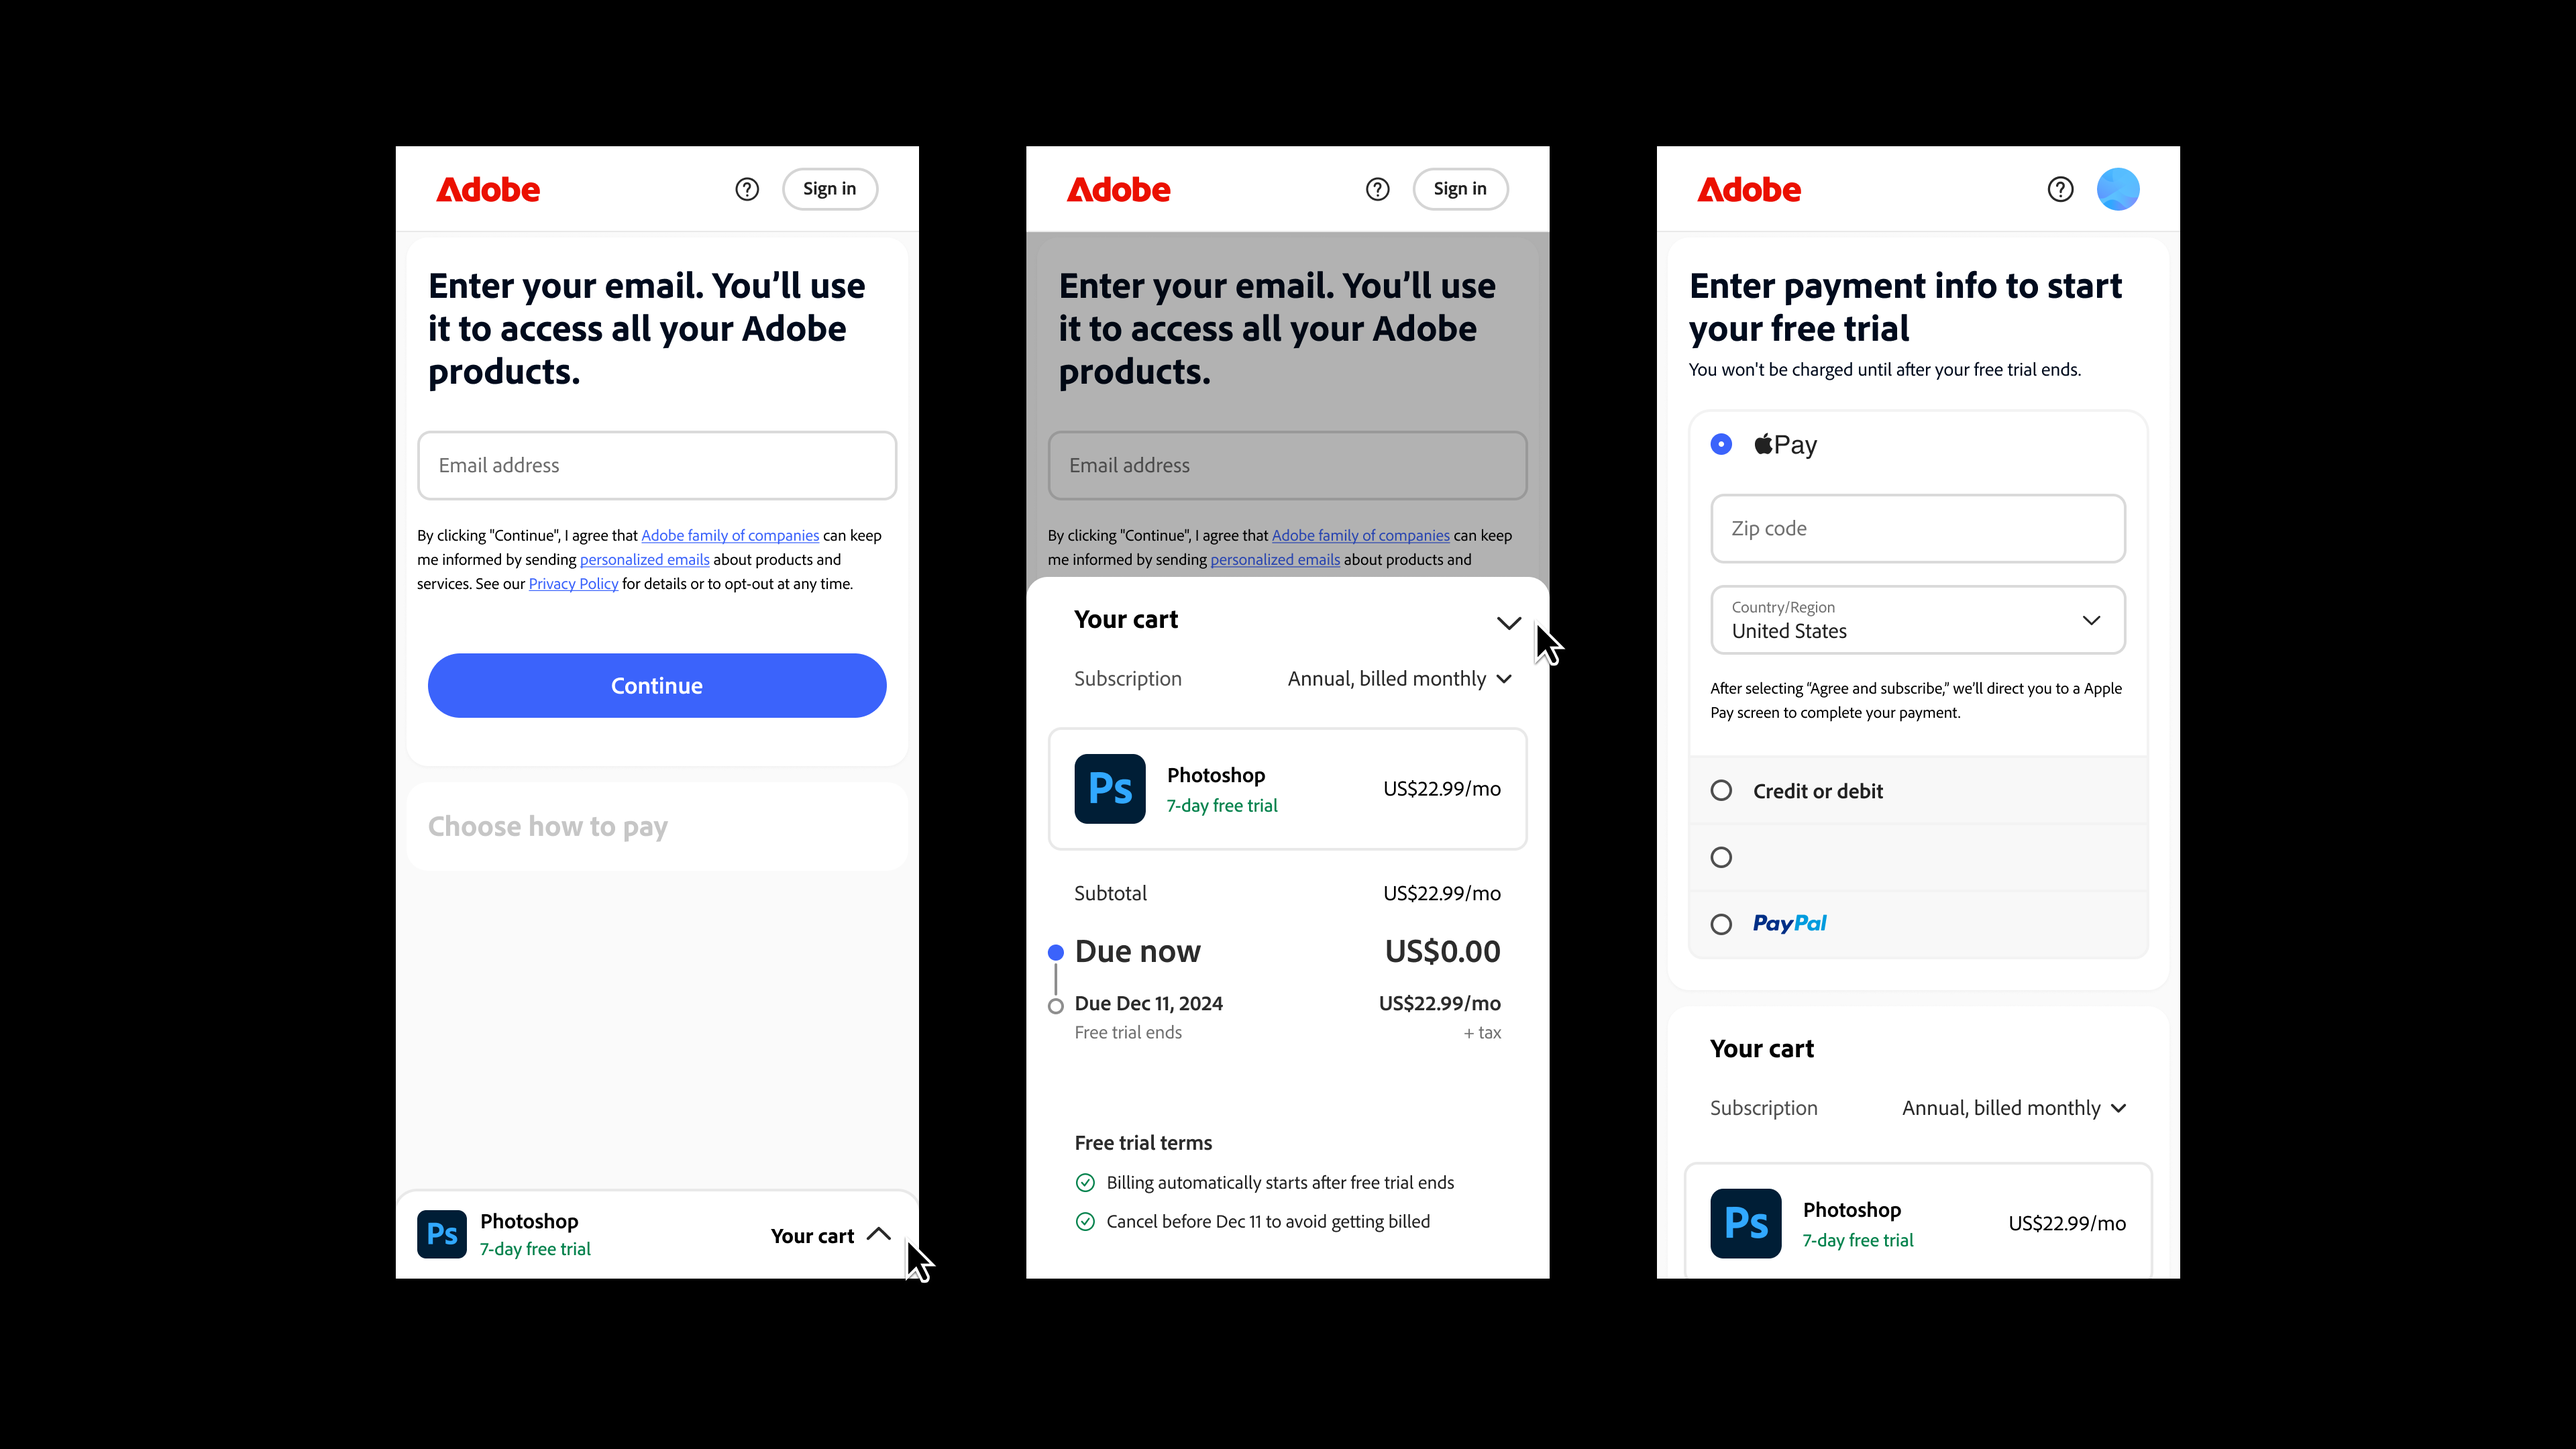
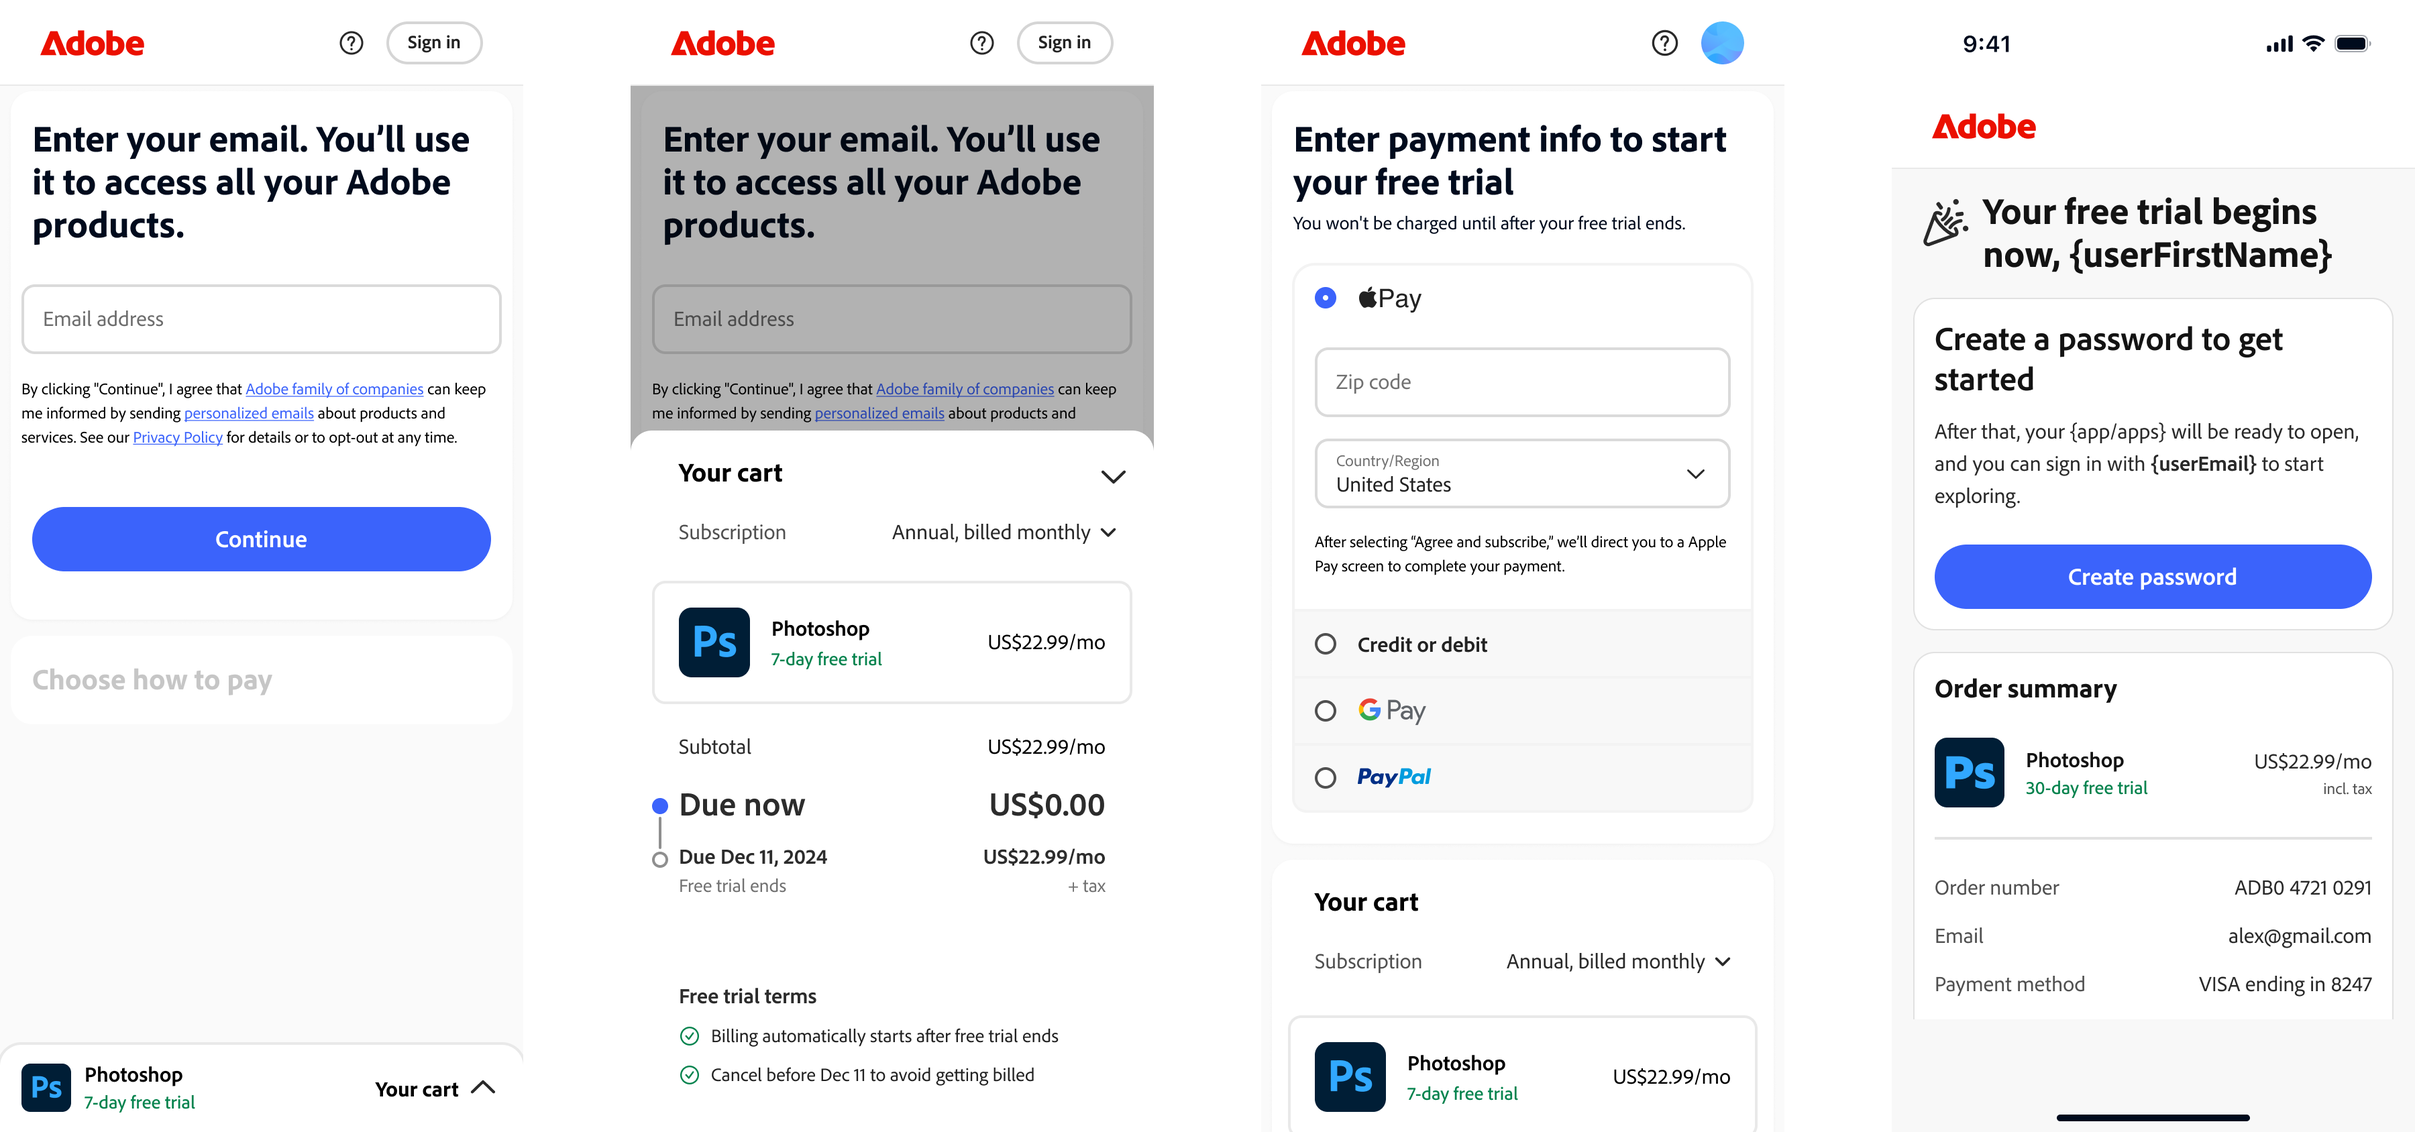
Update Designs Mobile slide with 4-screen composite (adds confirmation)

diff --git a/index.html b/index.html
@@ -931,9 +931,8 @@
     <div class="label">Designs — Mobile</div>
     <div class="h2">Designed for the smallest screen.</div>
   </div>
-  <div style="flex:1; min-height:0; display:flex; align-items:center; justify-content:center; gap:24px;">
-    <img src="/portfolio/assets/images/mobile-original.png" alt="Mobile designs" style="flex:3;min-width:0;height:100%;max-height:100%;width:auto;object-fit:contain;display:block;border-radius:10px;box-shadow:0 8px 40px rgba(0,0,0,0.6);">
-    <img src="/portfolio/assets/images/checkout-conf-mobile.png" alt="Confirmation" style="flex:1;min-width:0;height:100%;max-height:100%;width:auto;object-fit:contain;display:block;border-radius:20px;box-shadow:0 8px 40px rgba(0,0,0,0.4);">
+  <div style="flex:1; min-height:0; display:flex; align-items:center; justify-content:center;">
+    <img src="/portfolio/assets/images/mobile-original.png" alt="Mobile designs" class="contain-img" style="max-width:100%;max-height:100%;width:auto;height:auto;display:block;border-radius:10px;box-shadow:0 8px 40px rgba(0,0,0,0.6);">
   </div>
 </div>
 
